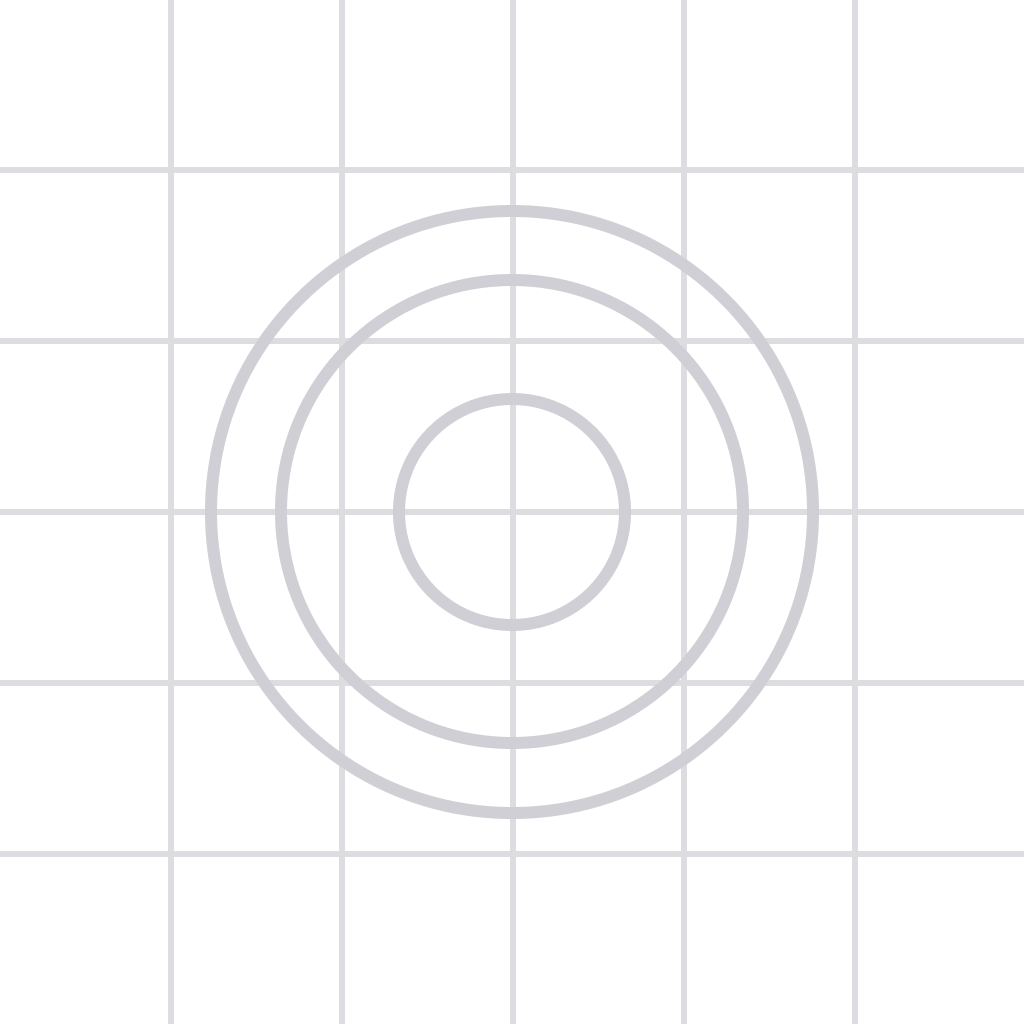
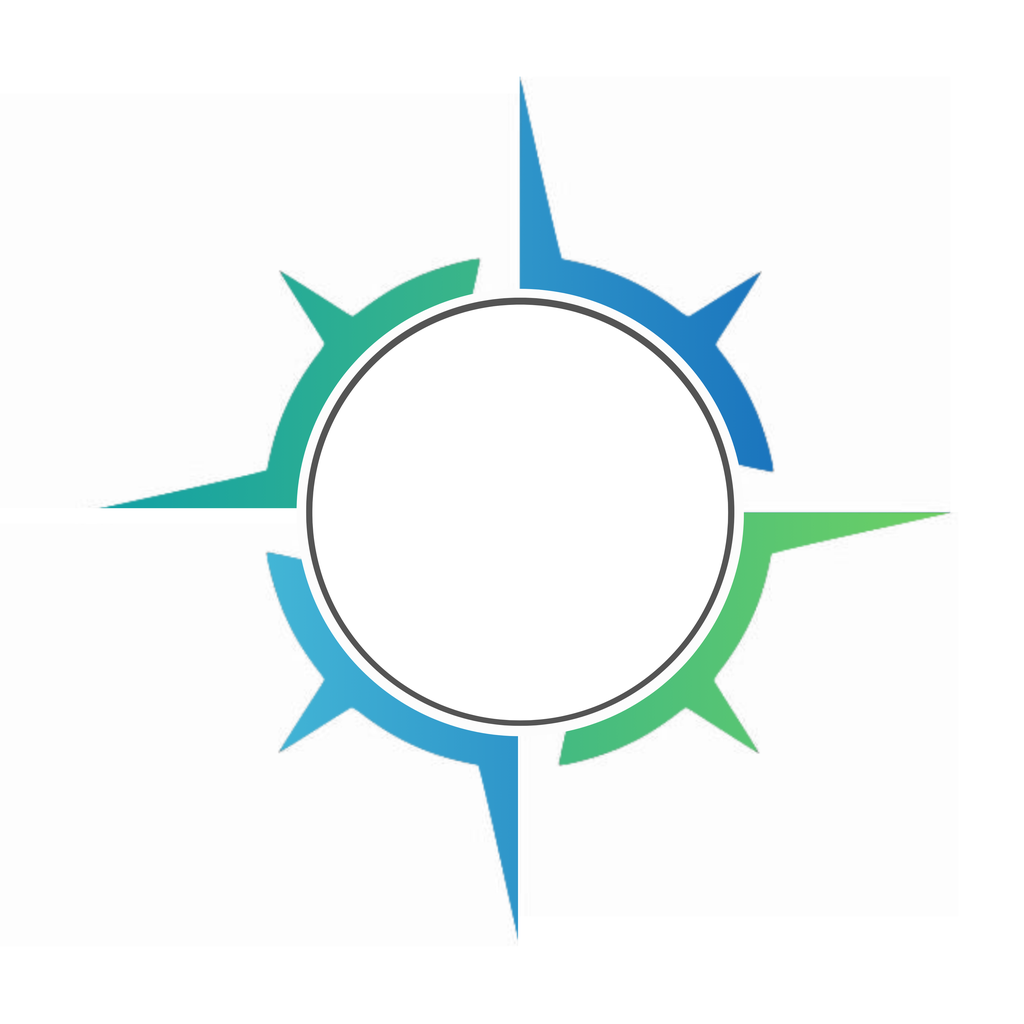
Basic things

diff --git a/frontend/app/support/contact.tsx b/frontend/app/support/contact.tsx
@@ -99,7 +99,7 @@ export default function ContactSupport() {
   };
 
   const handleOpenWebsite = () => {
-    Linking.openURL('https://taatom.com/support').catch(() => {
+    Linking.openURL('https://taatom.com/contact').catch(() => {
       Alert.alert('Error', 'Failed to open support website');
     });
   };

diff --git a/frontend/app/support/help.tsx b/frontend/app/support/help.tsx
@@ -75,7 +75,7 @@ export default function HelpCenter() {
   ];
 
   const handleOpenWebsite = () => {
-    Linking.openURL('https://taatom.com/help').catch(() => {
+    Linking.openURL('https://taatom.com/contact').catch(() => {
       Alert.alert('Error', 'Failed to open help website');
     });
   };